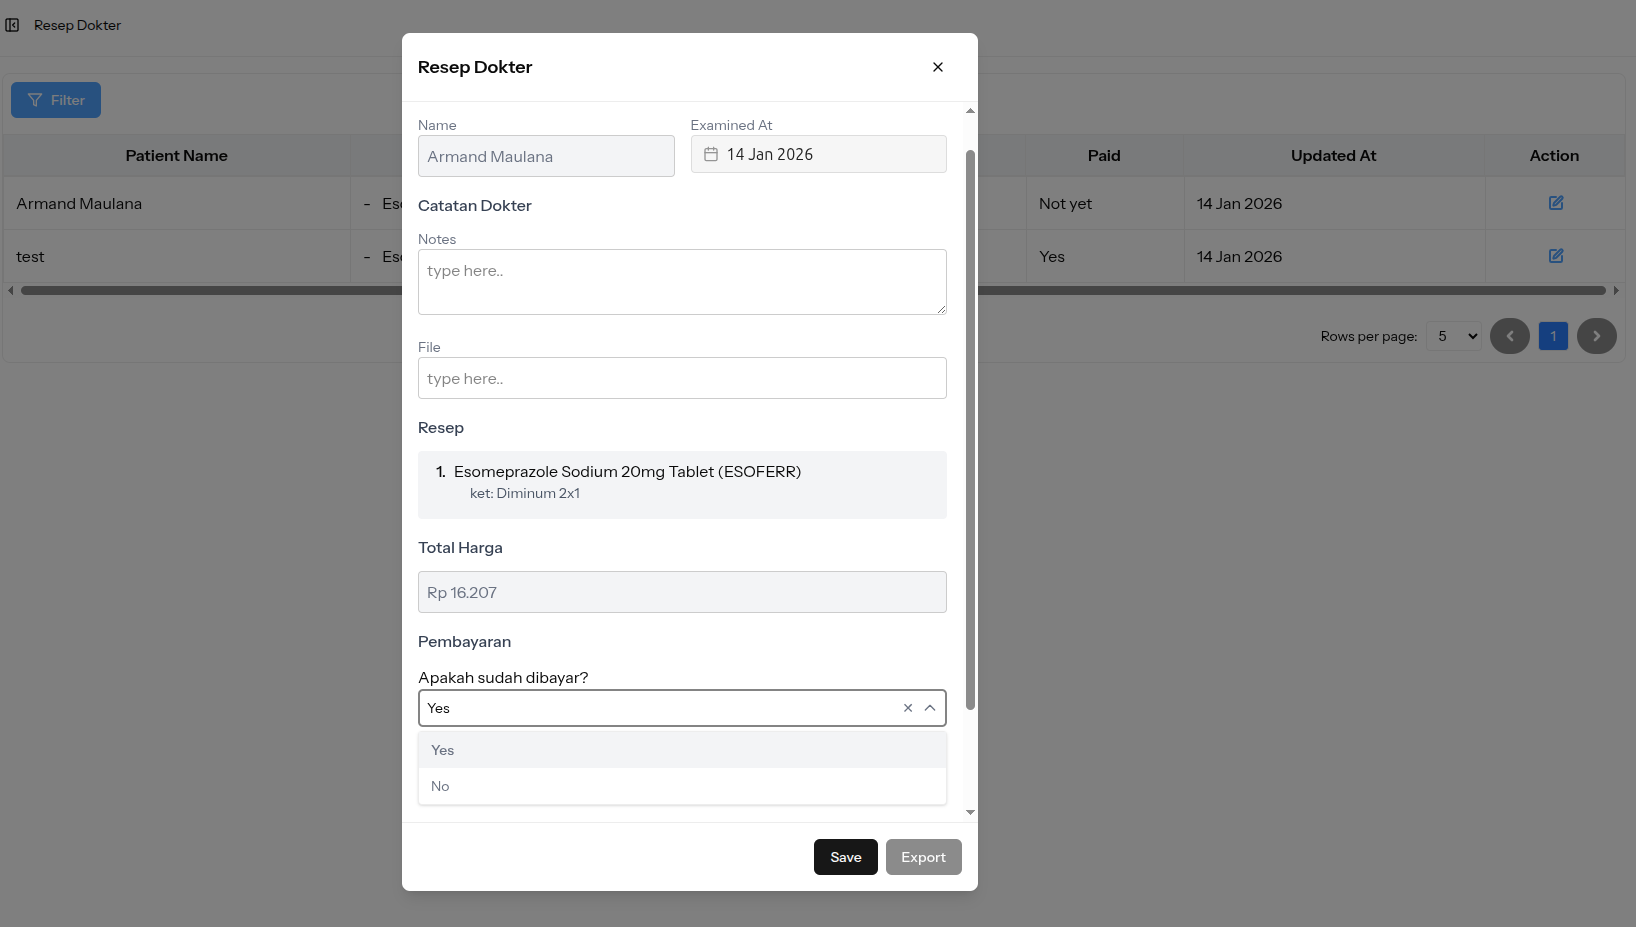
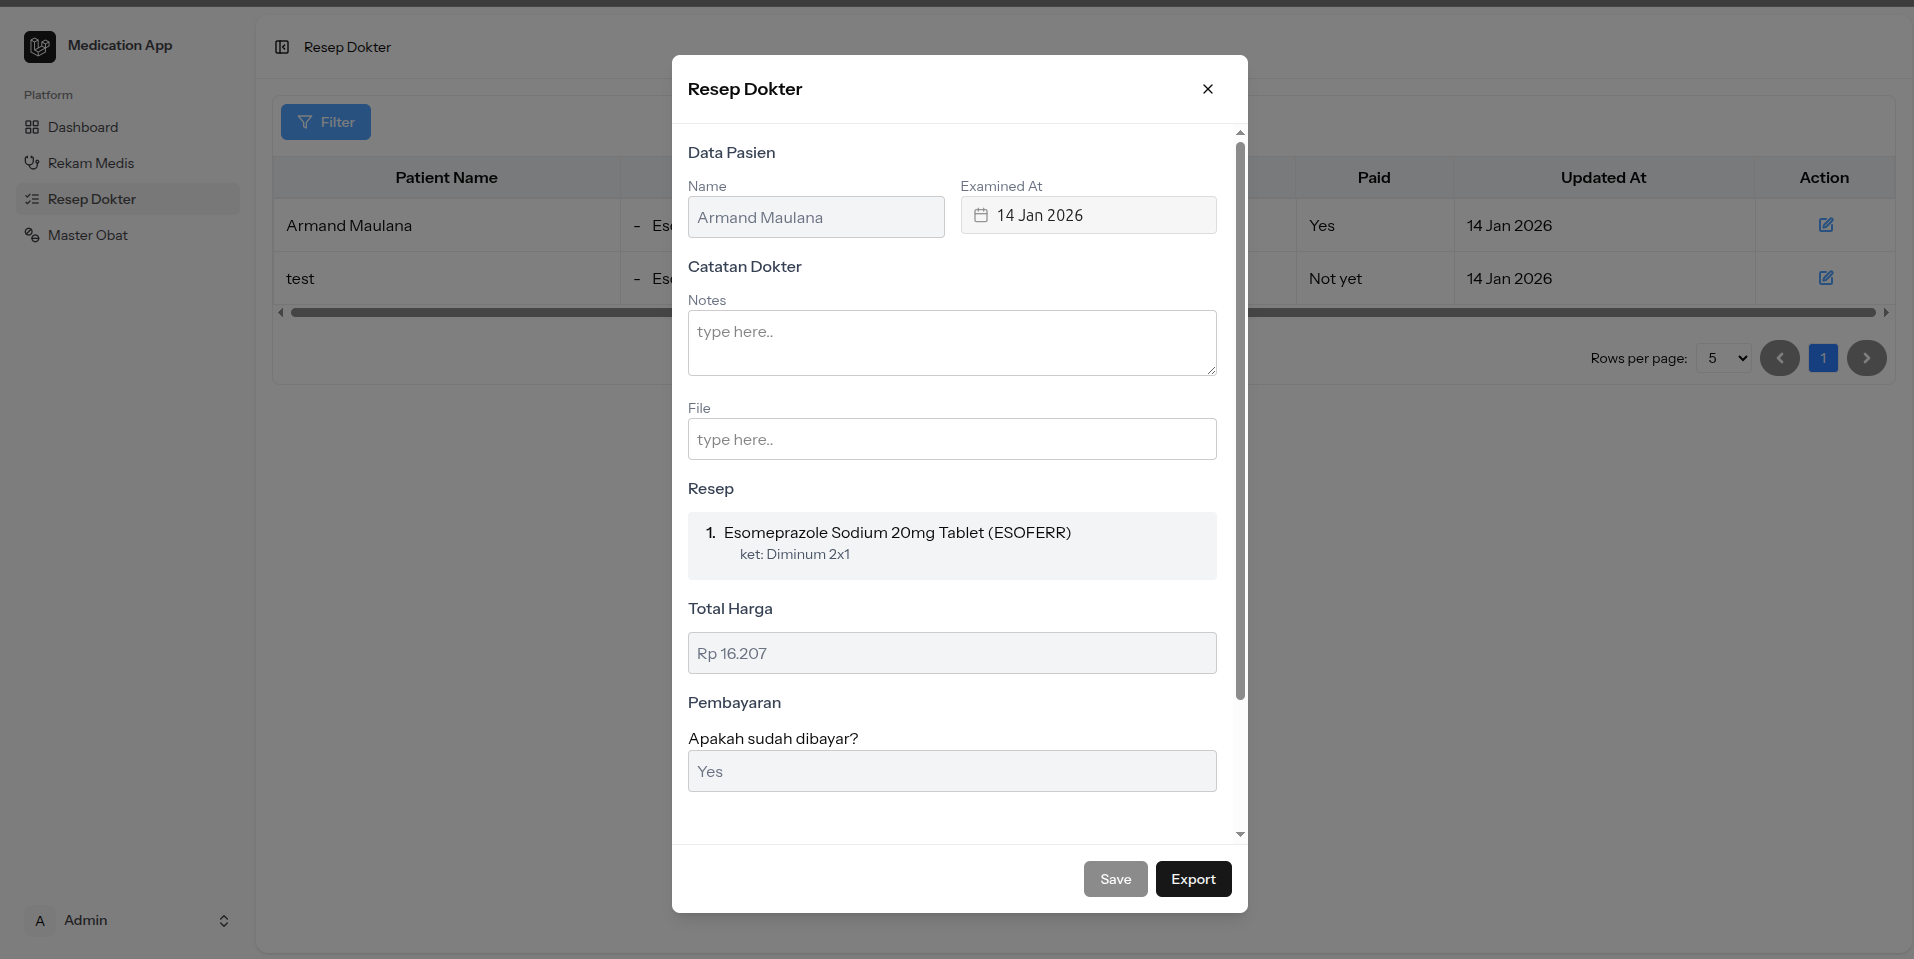
fix

diff --git a/README.md b/README.md
@@ -126,7 +126,11 @@ npm run dev
 
 Jika menggunakan `php artisan serve`, frontend (JS/Vue/Tailwind) tidak akan otomatis berjalan, harus menjalankan `npm run dev` agar tampilan dan interaksi frontend berfungsi dengan baik.
 
-## Demo
+##
+
+# Demo
+
+## Rekam Medis
 
 Berikut penjelasan tiap bagian Menu:
 
@@ -146,11 +150,11 @@ Berikut penjelasan tiap bagian Menu:
   **Edit button** hanya untuk data yg belum dibayar
 - Add New digunakan untuk menambahkan data pasien baru.
 
-##
+## Resep Dokter
 
 ![Menu](./resep.png)
 
-1. Button Save dan export
+1. Export ada di menu Resep Dokter
 
 - button export disable jika belum melakukan pembayaran
 - button save akan disable jika sudah melakukan pembayaran
